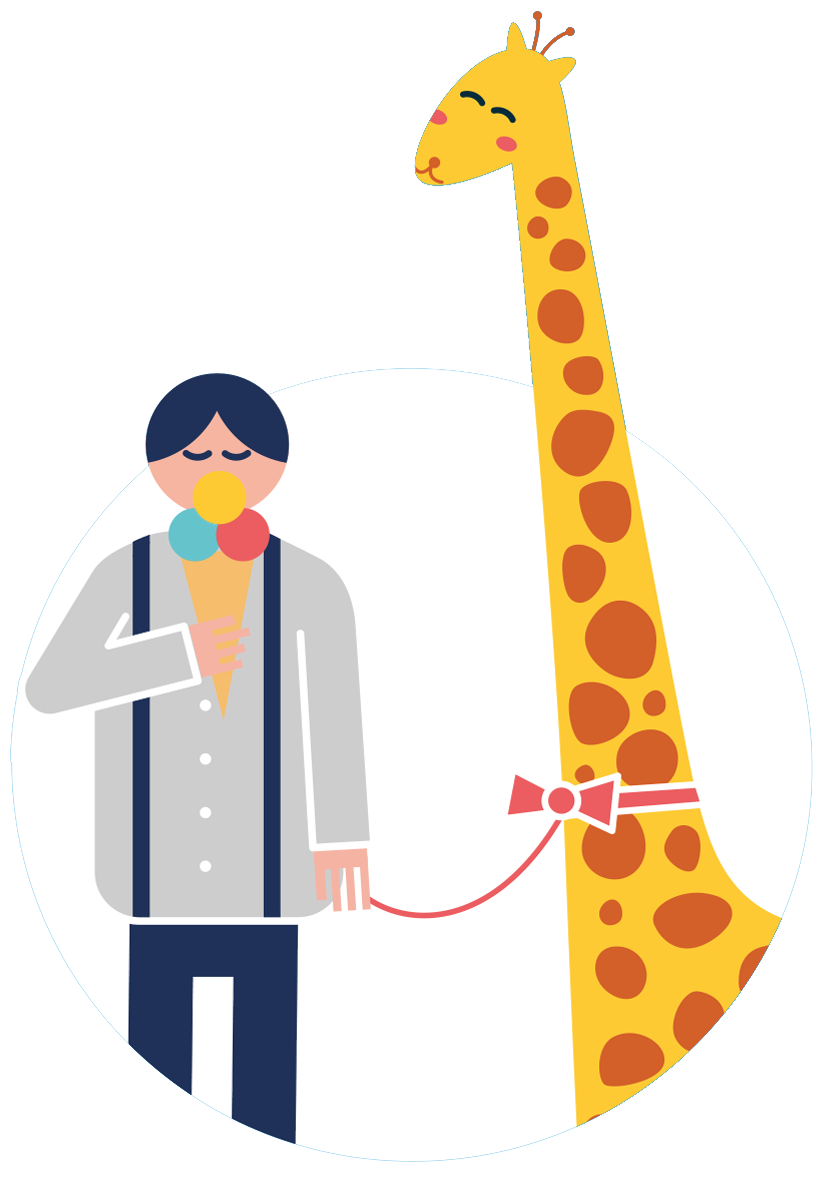
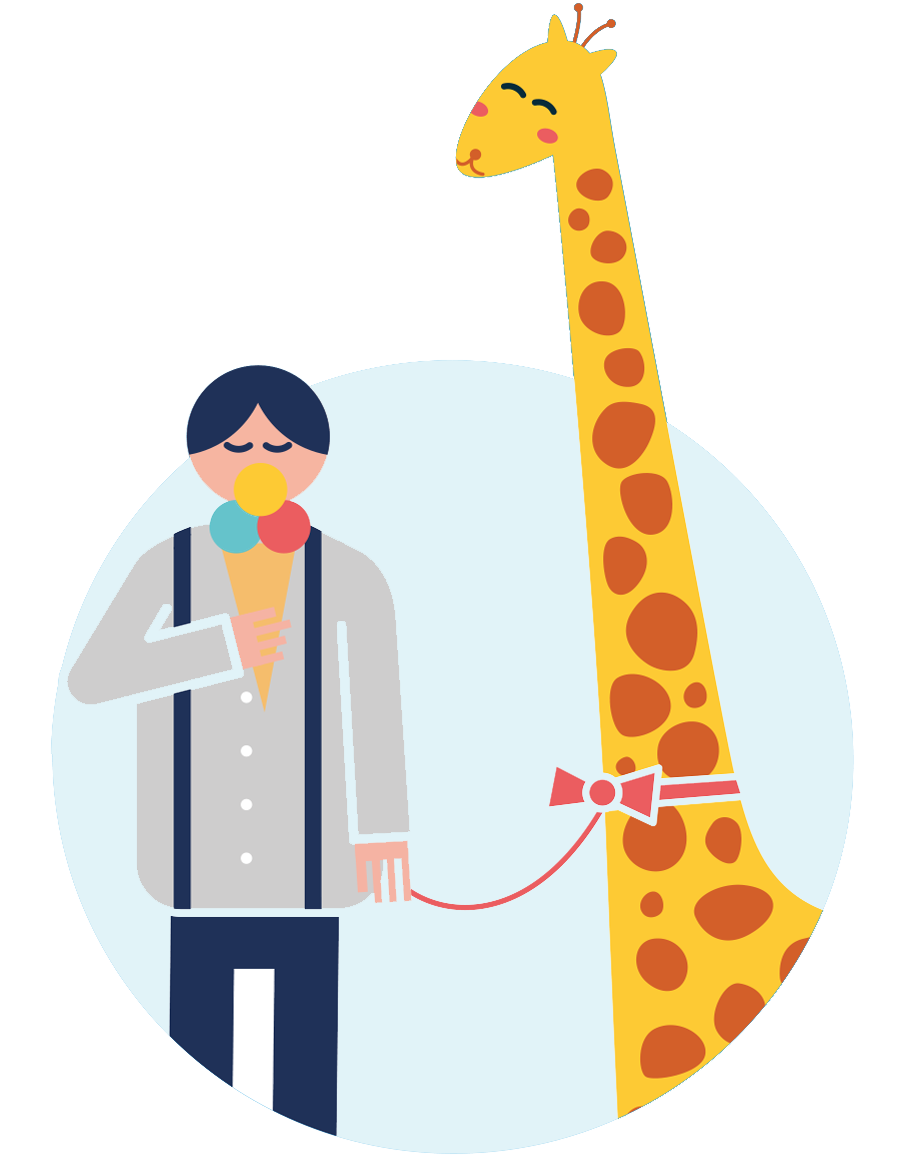
Work on responsive layouts with new graphics/texts.

diff --git a/client/src/app/views/mainLanding.js b/client/src/app/views/mainLanding.js
@@ -37,7 +37,7 @@ export default React.createClass({
                         <button className="btn btn-primary mt-30 btn-xl text-center m-5">{ this.getIntlMessage("mainLanding.button-cta") }</button>
                     </a>
 
-                    <div className="masthead-scroll-arrow hidden-xs">
+                    <div className="masthead-scroll-arrow">
                         <span>
                             <svg xmlns="http://www.w3.org/2000/svg" width="37" height="16" viewBox="0 0 37 16">
                                 <path d="M19.075 15.43c-.35.366-.926.414-1.334.097L.76 2.08C.326 1.743.248 1.115.587.68.926.242 1.553.163 1.99.502L18.35 13.46 34.864.617c.436-.34 1.064-.26 1.403.175.34.436.26 1.065-.175 1.404L19.075 15.43z" fill="#CCD3DC" fill-rule="evenodd">
@@ -53,12 +53,12 @@ export default React.createClass({
                     <div className="row">
                         <div className="col-md-7 col-sm-6 text-xs-center text-sm-left">
                             <h1 className="block-title">{ this.getIntlMessage("mainLanding.showcase-your-beast") }</h1>
-                            <h3 className="lead pr-50">
+                            <h3 className="lead">
                                 { this.getIntlMessage("mainLanding.beast-text") }
                             </h3>
                         </div>
-                        <div className="col-md-5 col-sm-6 text-right">
-                            <img src="../assets/img/seeker-profile-mirror.png" data-transition="entrance" />
+                        <div className="col-md-5 col-sm-6">
+                            <img className="img-responsive pull-right reset-margins-xs" src="../assets/img/seeker-profile-mirror.png" data-transition="entrance" />
                         </div>
                     </div>
                 </div>
@@ -67,14 +67,14 @@ export default React.createClass({
             <div className="block block-lg app-block-race-car">
                 <div className="container">
                     <div className="row">
-                        <div className="hidden-xs col-md-6 col-sm-6 text-xs-center text-sm-left">
-                            <img src="../assets/img/seeker-race-car.png" data-transition="entrance" />
-                        </div>
-                        <div className="col-md-6 col-sm-6 pull-right">
-                             <h1 className="block-title">{ this.getIntlMessage("mainLanding.applications-fast-easy") }</h1>
+                        <div className="col-md-6 col-lg-push-6 col-sm-6 text-xs-center text-sm-left">
+                            <h1 className="block-title">{ this.getIntlMessage("mainLanding.applications-fast-easy") }</h1>
                             <h3 className="lead">
                                 { this.getIntlMessage("mainLanding.applications-text") }
                             </h3>
+                        </div>
+                        <div className="col-md-6 col-lg-pull-6 col-sm-6 text-xs-center text-sm-left">
+                            <img className="img-responsive reset-margins-xs" src="../assets/img/seeker-race-car.png" data-transition="entrance" />
                         </div>
                     </div>
                 </div>
@@ -83,14 +83,14 @@ export default React.createClass({
             <div className="block block-lg app-block-truck">
                 <div className="container">
                     <div className="row">
-                        <div className="col-md-7 col-sm-6 text-xs-center text-sm-left pr-50">
+                        <div className="col-md-6 col-sm-6 text-xs-center text-sm-left">
                             <h1 className="block-title">{ this.getIntlMessage("mainLanding.element-of-fun") }</h1>
-                            <h3 className="lead pr-50">
+                            <h3 className="lead">
                                 { this.getIntlMessage("mainLanding.element-of-fun-text") }
                             </h3>
                         </div>
-                        <div className="col-md-5 col-sm-6 text-right">
-                            <img src="../assets/img/employer-ice-cream-truck.png" data-transition="entrance" />
+                        <div className="col-md-6 col-sm-6 pull-xs-right">
+                            <img className="img-responsive pull-right reset-margins-xs" src="../assets/img/employer-ice-cream-truck.png" data-transition="entrance" />
                         </div>
                     </div>
                 </div>
@@ -99,14 +99,14 @@ export default React.createClass({
             <div className="block block-lg app-block-chat">
                 <div className="container">
                     <div className="row">
-                        <div className="col-md-7 col-sm-6 text-xs-center text-sm-left">
-                            <img src="../assets/img/seeker-chat.png" data-transition="entrance" />
-                        </div>
-                        <div className="col-md-5 col-sm-6 pull-right">
+                        <div className="col-md-6 col-lg-push-6 col-sm-6 text-xs-center text-sm-left">
                              <h1 className="block-title">{ this.getIntlMessage("mainLanding.seamless-communication") }</h1>
                             <h3 className="lead">
                                 { this.getIntlMessage("mainLanding.seamless-communication-text") }
                             </h3>
+                        </div>
+                        <div className="col-md-6 col-lg-pull-7 col-sm-6 text-xs-center text-sm-right">
+                            <img className="img-responsive pull-right reset-margin-xs"src="../assets/img/seeker-chat.png" data-transition="entrance" />
                         </div>
                     </div>
                 </div>
@@ -115,14 +115,14 @@ export default React.createClass({
             <div className="block block-lg app-block-giraffe">
                 <div className="container">
                     <div className="row">
-                        <div className="col-md-7 col-sm-6 text-xs-center text-sm-left pr-50">
+                        <div className="col-md-7 col-sm-6 text-xs-center text-sm-left">
                             <h1 className="block-title">{ this.getIntlMessage("mainLanding.enjoy-life") }</h1>
-                            <h3 className="lead pr-50">
+                            <h3 className="lead">
                                 { this.getIntlMessage("mainLanding.enjoy-life-text") }
                             </h3>
                         </div>
                         <div className="col-md-5 col-sm-6 text-right">
-                            <img src="../assets/img/seeker-giraffe.png" data-transition="entrance" />
+                            <img className="img-responsive reset-margin-xs" src="../assets/img/seeker-giraffe.png" data-transition="entrance" />
                         </div>
                     </div>
                 </div>
@@ -132,9 +132,9 @@ export default React.createClass({
                 <div className="container">
                     <div className="row">
                         <div className="col-md-6 col-sm-6 text-right">
-                            <img src="../assets/img/beavr-pool.png" data-transition="entrance" />
+                            <img className="img-responsive" src="../assets/img/beavr-pool.png" data-transition="entrance" />
                         </div>
-                        <div className="col-md-6 pl-50 pr-50 col-sm-6 text-center">
+                        <div className="col-md-6 pl-50 col-sm-6 text-center">
                             <hr />
                             <hr />
                             <h1 className="block-title">Join our Beavr Pool!</h1>

diff --git a/client/src/app/views/employerLanding.js b/client/src/app/views/employerLanding.js
@@ -54,7 +54,7 @@ export default React.createClass({
                     <div className="row">
                         <div className="col-md-7 col-sm-6 text-xs-center text-sm-left">
                             <h1 className="block-title">{ this.getIntlMessage("employerLanding.stop-cv-nightmare") }</h1>
-                            <h3 className="lead pr-50">
+                            <h3 className="lead">
                                 { this.getIntlMessage("employerLanding.stop-cv-nightmare-text") }
                             </h3>
                         </div>
@@ -71,7 +71,7 @@ export default React.createClass({
                         <div className="col-md-7 col-sm-6 text-xs-center text-sm-left">
                             <img src="../assets/img/employer-desk.png" data-transition="entrance" />
                         </div>
-                        <div className="col-md-5 col-sm-6 pull-right">
+                        <div className="col-md-5 col-sm-6 text-xs-center text-sm-left">
                             <h1 className="block-title">{ this.getIntlMessage("employerLanding.everything-in-one-place") }</h1>
                             <h3 className="lead">
                                 { this.getIntlMessage("employerLanding.everything-in-one-place-text") }
@@ -84,9 +84,9 @@ export default React.createClass({
             <div className="block block-lg app-block-employer-picker">
                 <div className="container">
                     <div className="row">
-                        <div className="col-md-7 col-sm-6 text-xs-center text-sm-left pr-50">
+                        <div className="col-md-7 col-sm-6 text-xs-center text-sm-left">
                             <h1 className="block-title">{ this.getIntlMessage("employerLanding.pick-the-one") }</h1>
-                            <h3 className="lead pr-50">
+                            <h3 className="lead">
                                 { this.getIntlMessage("employerLanding.pick-the-one-text") }
                             </h3>
                         </div>
@@ -97,7 +97,7 @@ export default React.createClass({
                 </div>
             </div>
 
-            <div className="block block-lg app-block-chat pt-30 pb-30 full-width">
+            <div className="block block-lg app-block-piggy-bank full-width">
                 <div className="container">
                     <div className="row pb-30 pt-30">
                         <div className="col-md-7 col-sm-6 text-xs-center text-sm-left">

diff --git a/client/src/assets/main.css b/client/src/assets/main.css
@@ -58,6 +58,51 @@
 #forgot .spacer {
   margin-top: 15px;
 }
+.app-beavr-masthead {
+  margin-top: 8%;
+  margin-bottom: 12%;
+}
+.masthead-title {
+  font-size: 81px;
+  line-height: 81px;
+}
+.masthead-scroll-arrow {
+  display: block;
+  position: absolute;
+  bottom: 2%;
+  left: 49%;
+  right: auto;
+}
+.app-block-intro {
+  padding-top: 20px;
+}
+.app-block-intro img {
+  text-align: center;
+  width: 80%;
+  border-bottom: none !important;
+}
+.app-block-profile img,
+.app-block-truck img,
+.app-block-chat img,
+.app-block-race-car img {
+  width: 400px;
+  margin-top: -75px;
+}
+.app-block-pool img {
+  margin-top: 100px;
+  width: 500px;
+}
+.app-block-race-car img {
+  width: 470px;
+}
+.app-block-employer-picker img {
+  width: 470px;
+  margin-top: -120px;
+}
+.app-block-giraffe img {
+  width: 350px;
+  margin-top: -190px;
+}
 #profile .input-description {
   width: 100%;
   min-height: 40px;
@@ -284,8 +329,10 @@ body {
 }
 .app-block-profile img,
 .app-block-truck img,
-.app-block-chat img {
+.app-block-chat img,
+.app-block-race-car img {
   width: 400px;
+  margin-top: -75px;
 }
 .app-block-pool img {
   margin-top: 100px;
@@ -294,21 +341,30 @@ body {
 .app-block-race-car img {
   width: 470px;
 }
+.app-block-piggy-bank img {
+  width: 420px;
+  margin-top: 10px;
+}
 .app-block-employer-picker img {
   width: 470px;
-  margin-top: -70px;
+  margin-top: -120px;
 }
 .app-block-giraffe img {
   width: 350px;
-  margin-top: -120px;
+  margin-top: -190px;
+}
+@media (max-width: 768px) {
+  .reset-margins-xs {
+    margin: 0 !important;
+  }
+  .reset-padding-xs {
+    padding: 0 !important;
+  }
 }
 @media (max-width: 480px) {
   .app-block-game-img {
     transform: scale(1.5) !important;
   }
-}
-.app-block-profile hr {
-  width: calc(80% + 60px);
 }
 @media (min-width: 768px) {
   .app-block-racecar-img {
